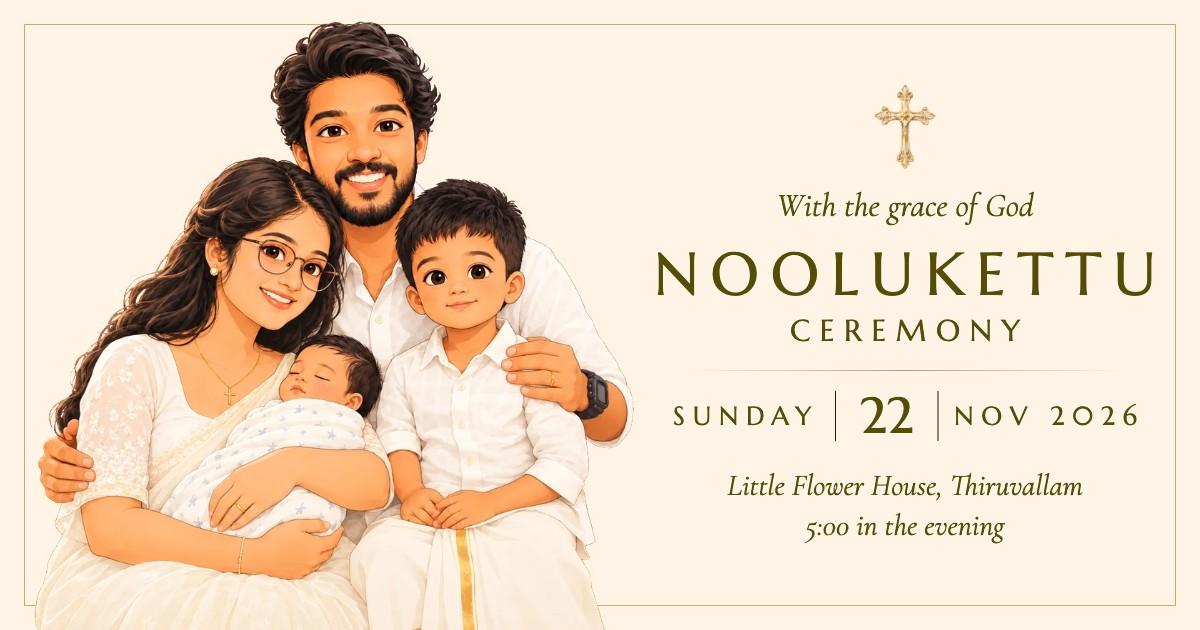
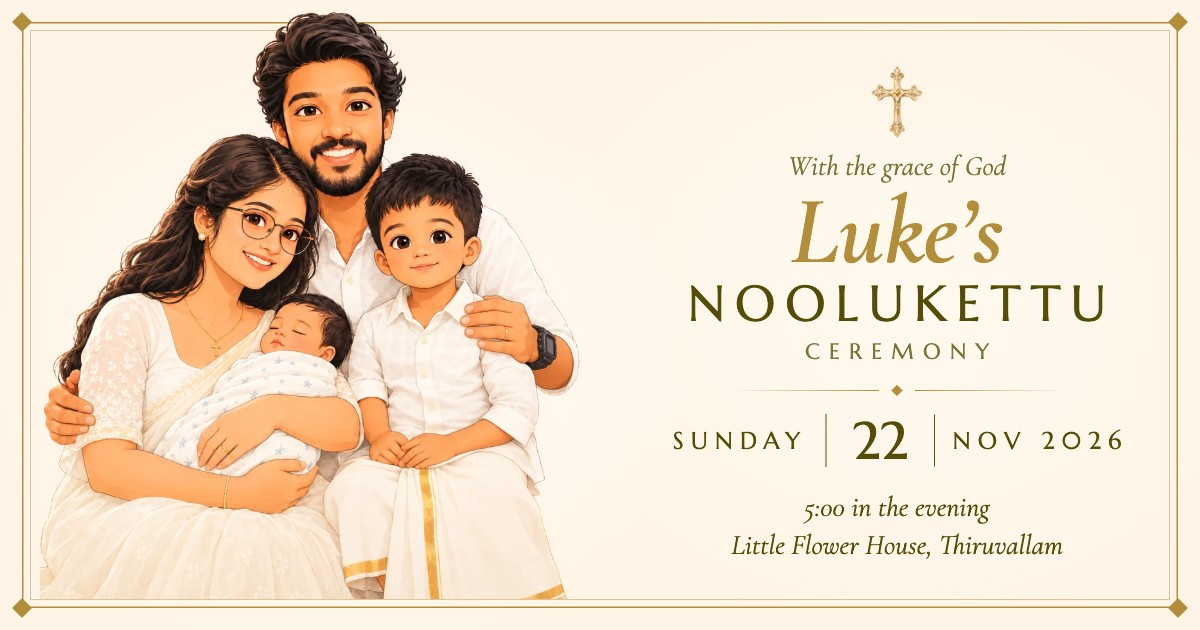
Move ceremony to Sun 22 Nov 5 pm, name Luke, add share card
- Date/time updated everywhere: hero, details, countdown, calendar link, RSVP text, meta
- Parent names and "family" wording replaced with Luke
- "Come, bless our little one." kept on one line at all widths
- Thread sentence reworded; address uses "P.O."
- New 1200x630 share image with Open Graph/Twitter tags on the live Pages URL

Changed region(s): [[0.0, 0.0, 0.9867, 1.0], [0.555, 0.6333, 0.6783, 0.7238]]

diff --git a/index.html b/index.html
@@ -4,24 +4,26 @@
 <meta charset="utf-8">
 <meta name="viewport" content="width=device-width, initial-scale=1">
 <title>Noolukettu Invitation</title>
-<meta name="description" content="Bibin Little and Christamol Johns invite you to their baby boy's Noolukettu ceremony on Sunday, 22 November 2026 at 5:00 pm.">
+<meta name="description" content="You are invited to Luke's Noolukettu ceremony on Sunday, 22 November 2026 at 5:00 pm.">
 <meta name="theme-color" content="#FFF4E6">
 <link rel="icon" href="assets/cross.webp" type="image/webp">
 
-<!-- Social share card. og:image and og:url must be absolute: replace SITE_URL with the live address once deployed. -->
+<!-- Social share card. og:image and og:url must be absolute URLs. -->
 <meta property="og:type" content="website">
 <meta property="og:site_name" content="Noolukettu Invitation">
-<meta property="og:title" content="You are invited: Noolukettu Ceremony">
-<meta property="og:description" content="With the grace of God, Bibin Little and Christamol Johns invite you to their baby boy's Noolukettu ceremony. Sunday, 22 November 2026, 5:00 pm, Little Flower House, Thiruvallam.">
-<meta property="og:url" content="SITE_URL/">
-<meta property="og:image" content="SITE_URL/assets/share.jpg">
+<meta property="og:title" content="You are invited: Luke's Noolukettu Ceremony">
+<meta property="og:description" content="With the grace of God, you are invited to Luke's Noolukettu ceremony. Sunday, 22 November 2026, 5:00 pm, Little Flower House, Thiruvallam.">
+<meta property="og:url" content="https://bombe-ai.github.io/noolukettu-event-website/">
+<meta property="og:image" content="https://bombe-ai.github.io/noolukettu-event-website/assets/share.jpg">
+<meta property="og:image:secure_url" content="https://bombe-ai.github.io/noolukettu-event-website/assets/share.jpg">
+<meta property="og:image:type" content="image/jpeg">
 <meta property="og:image:width" content="1200">
 <meta property="og:image:height" content="630">
-<meta property="og:image:alt" content="Noolukettu Ceremony invitation card: the family illustration beside the date, 22 November 2026">
+<meta property="og:image:alt" content="Invitation card for Luke's Noolukettu Ceremony, 22 November 2026">
 <meta name="twitter:card" content="summary_large_image">
-<meta name="twitter:title" content="You are invited: Noolukettu Ceremony">
+<meta name="twitter:title" content="You are invited: Luke's Noolukettu Ceremony">
 <meta name="twitter:description" content="Sunday, 22 November 2026, 5:00 pm, Little Flower House, Thiruvallam.">
-<meta name="twitter:image" content="SITE_URL/assets/share.jpg">
+<meta name="twitter:image" content="https://bombe-ai.github.io/noolukettu-event-website/assets/share.jpg">
 <script>document.documentElement.classList.add('js');</script>
 <link rel="preconnect" href="https://fonts.googleapis.com">
 <link rel="preconnect" href="https://fonts.gstatic.com" crossorigin>
@@ -162,7 +164,7 @@ a { color: inherit; }
 }
 .block { width: 100%; max-width: 34rem; display: grid; gap: 18px; justify-items: center; }
 .eyebrow { font-family: var(--font-caps); font-size: .74rem; letter-spacing: .34em; text-transform: uppercase; color: var(--olive-soft); }
-.lead { font-size: clamp(2rem, 7.4vw, 3.2rem); line-height: 1.08; font-style: italic; font-weight: 500; }
+.lead { white-space: nowrap; font-size: clamp(1.8rem, 7.4vw, 3.2rem); line-height: 1.08; font-style: italic; font-weight: 500; }
 .body { max-width: 30rem; color: #4c4505; }
 
 /* thread connectors */
@@ -447,7 +449,7 @@ footer.sign .names { font-family: var(--font-caps); font-size: .8rem; letter-spa
         <div class="sweep"></div>
         <div class="cross-wrap"><img src="assets/cross.webp" alt="Ornate golden cross" width="260" height="357"></div>
         <p class="grace">With the grace of God</p>
-        <p class="invite">we, Bibin Little and Christamol Johns,<br>invite you to join our baby boy&rsquo;s</p>
+        <p class="invite">you are invited<br>to join Luke&rsquo;s</p>
 
         <h1 class="title" aria-label="Noolukettu Ceremony">
           <span class="word" aria-hidden="true">
@@ -467,7 +469,7 @@ footer.sign .names { font-family: var(--font-caps); font-size: .8rem; letter-spa
           <span class="row" aria-hidden="true"><span>SUNDAY</span><span class="day">22</span><span>AT 5:00pm</span></span>
           <span class="year" aria-hidden="true">2026</span>
         </div>
-        <p class="address">Little Flower House<br>Koliyoor, Muttacadu P.O<br>Thiruvallam, Thiruvananthapuram</p>
+        <p class="address">Little Flower House<br>Koliyoor, Muttacadu P.O.<br>Thiruvallam, Thiruvananthapuram</p>
       </div>
     </div>
 
@@ -479,8 +481,8 @@ footer.sign .names { font-family: var(--font-caps); font-size: .8rem; letter-spa
 
     <section class="block" id="countdown">
       <p class="eyebrow orn rv">22 November 2026</p>
-      <h2 class="lead rvw"><span class="w" style="--w:0">Come,</span> <span class="w" style="--w:1">bless</span><br><span class="w" style="--w:2">our</span> <span class="w" style="--w:3">little</span> <span class="w" style="--w:4">one.</span></h2>
-      <p class="body rv" style="--d:220ms">We are tying the thread for our baby boy, and we would love to have you beside us when we do.</p>
+      <h2 class="lead rvw"><span class="w" style="--w:0">Come,</span> <span class="w" style="--w:1">bless</span> <span class="w" style="--w:2">our</span> <span class="w" style="--w:3">little</span> <span class="w" style="--w:4">one.</span></h2>
+      <p class="body rv" style="--d:220ms">We are tying the thread for our baby boy, and we would love to have you by our side.</p>
       <div class="count rv" style="--d:320ms" id="count" role="timer" aria-label="Time left until the ceremony">
         <div class="cell"><span class="num" id="cd-d">0</span><span class="lbl">Days</span></div>
         <div class="cell"><span class="num" id="cd-h">0</span><span class="lbl">Hours</span></div>
@@ -499,7 +501,7 @@ footer.sign .names { font-family: var(--font-caps); font-size: .8rem; letter-spa
           <p class="big">Sunday, 22 November 2026</p>
           <p class="small">5:00 in the evening</p>
           <a class="btn" target="_blank" rel="noopener"
-             href="https://calendar.google.com/calendar/render?action=TEMPLATE&amp;text=Noolukettu%20Ceremony%20%E2%80%93%20Bibin%20%26%20Christamol%27s%20baby%20boy&amp;dates=20261122T113000Z%2F20261122T140000Z&amp;location=Little%20Flower%20House%2C%20Koliyoor%2C%20Muttacadu%20P.O%2C%20Thiruvallam%2C%20Thiruvananthapuram&amp;details=With%20the%20grace%20of%20God%2C%20join%20us%20for%20our%20baby%20boy%27s%20Noolukettu%20ceremony.">
+             href="https://calendar.google.com/calendar/render?action=TEMPLATE&amp;text=Luke%27s%20Noolukettu%20Ceremony&amp;dates=20261122T113000Z%2F20261122T140000Z&amp;location=Little%20Flower%20House%2C%20Koliyoor%2C%20Muttacadu%20P.O.%2C%20Thiruvallam%2C%20Thiruvananthapuram&amp;details=With%20the%20grace%20of%20God%2C%20join%20us%20for%20Luke%27s%20Noolukettu%20ceremony.">
             <svg viewBox="0 0 16 16" aria-hidden="true"><rect x="2" y="3" width="12" height="11" rx="1.5"/><path d="M2 6.5h12M5 1.5v3M11 1.5v3"/></svg>
             Add to calendar
           </a>
@@ -507,7 +509,7 @@ footer.sign .names { font-family: var(--font-caps); font-size: .8rem; letter-spa
         <div class="fact rv" style="--d:220ms">
           <h3>Where</h3>
           <p class="big">Little Flower House</p>
-          <p class="small">Koliyoor, Muttacadu P.O<br>Thiruvallam, Thiruvananthapuram</p>
+          <p class="small">Koliyoor, Muttacadu P.O.<br>Thiruvallam, Thiruvananthapuram</p>
           <a class="btn" target="_blank" rel="noopener"
              href="https://www.google.com/maps/search/?api=1&amp;query=8.41825008392334%2C76.98590087890625">
             <svg viewBox="0 0 16 16" aria-hidden="true"><path d="M8 14.5s4.5-4.2 4.5-7.8a4.5 4.5 0 0 0-9 0c0 3.6 4.5 7.8 4.5 7.8Z"/><circle cx="8" cy="6.6" r="1.6"/></svg>
@@ -567,7 +569,7 @@ footer.sign .names { font-family: var(--font-caps); font-size: .8rem; letter-spa
 
             <div class="ff">
               <textarea id="rsvp-note" name="note" rows="2" placeholder=" "></textarea>
-              <label for="rsvp-note" id="note-label">A note for the family (optional)</label>
+              <label for="rsvp-note" id="note-label">A note for Luke (optional)</label>
             </div>
 
             <div class="send">
@@ -600,7 +602,7 @@ footer.sign .names { font-family: var(--font-caps); font-size: .8rem; letter-spa
     <footer class="sign rv">
       <img src="assets/cross.webp" alt="" width="260" height="357">
       <p class="with">With love and gratitude,</p>
-      <p class="names">Bibin, Christamol &amp; family</p>
+      <p class="names">Luke</p>
     </footer>
   </div>
 </main>
@@ -672,7 +674,7 @@ footer.sign .names { font-family: var(--font-caps); font-size: .8rem; letter-spa
   var hintEl = $('rsvp-hint'), waEl = $('rsvp-wa'), sendLabel = $('rsvp-send-label');
   if (SHEET_ENDPOINT) {
     sendLabel.textContent = 'Send my reply';
-    hintEl.textContent = 'Your reply goes straight to the family.';
+    hintEl.textContent = 'Your reply goes straight to Luke.';
     sendEl.removeAttribute('target');
     sendEl.setAttribute('role', 'button');
   }
@@ -690,7 +692,7 @@ footer.sign .names { font-family: var(--font-caps); font-size: .8rem; letter-spa
     more.classList.toggle('open', !!a);
     moreIn.inert = !a;
     guestsField.hidden = a !== 'yes';
-    $('note-label').textContent = a === 'no' ? 'A wish for the little one (optional)' : 'A note for the family (optional)';
+    $('note-label').textContent = a === 'no' ? 'A wish for the little one (optional)' : 'A note for Luke (optional)';
     guestsOut.textContent = guests;
     drawDots();
 
